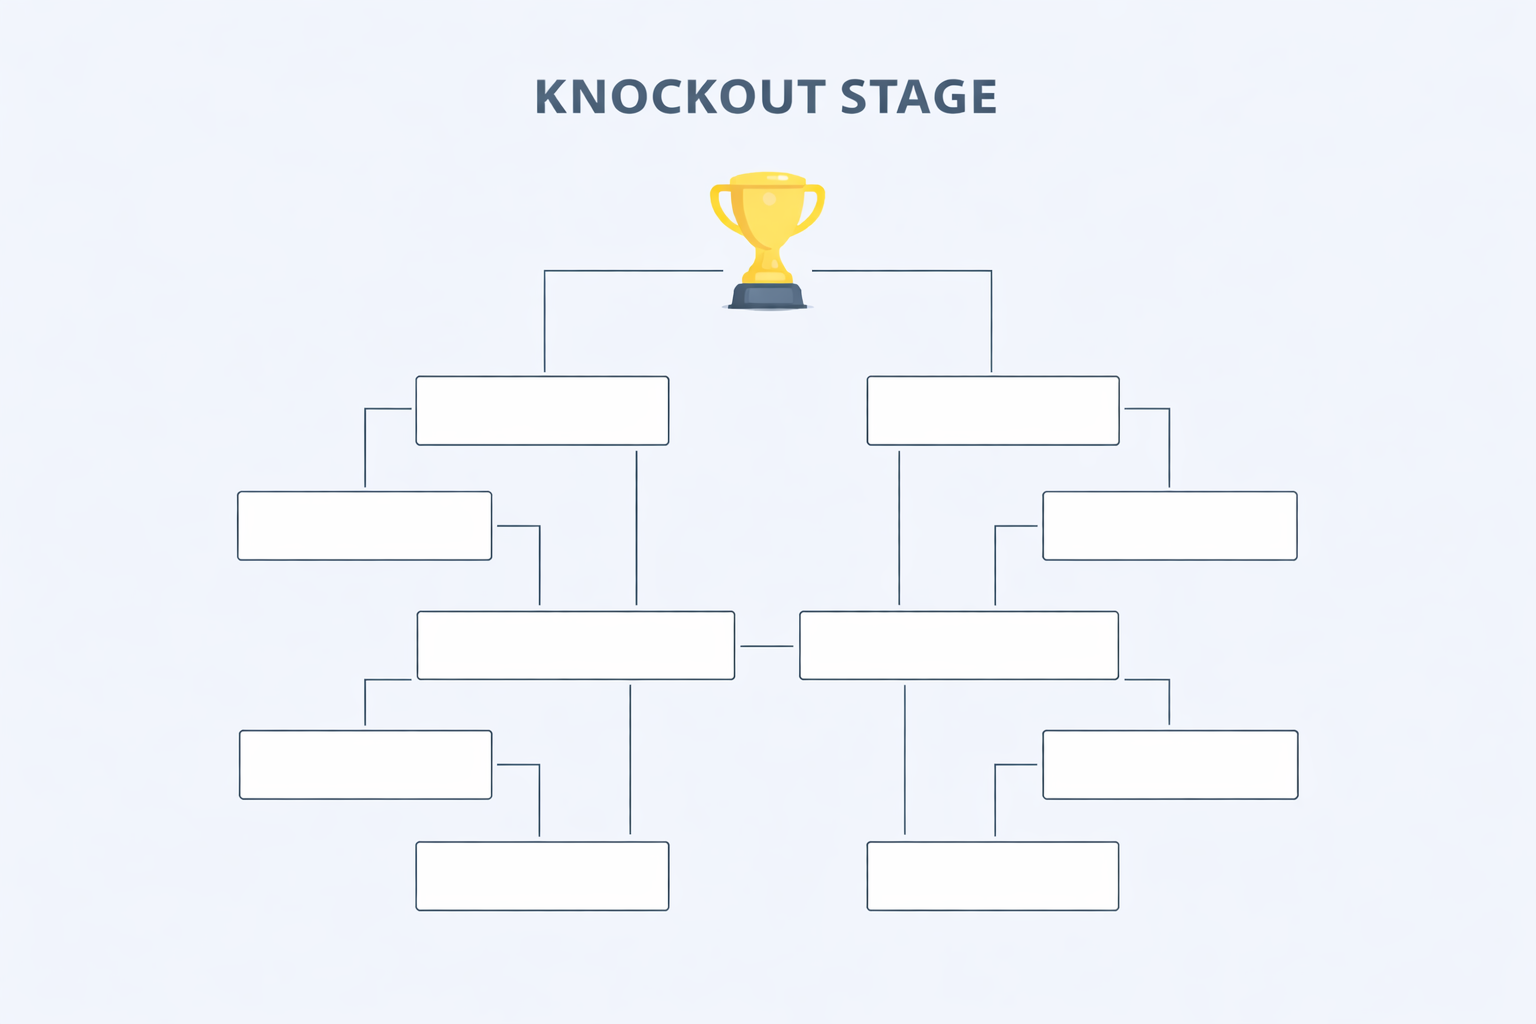
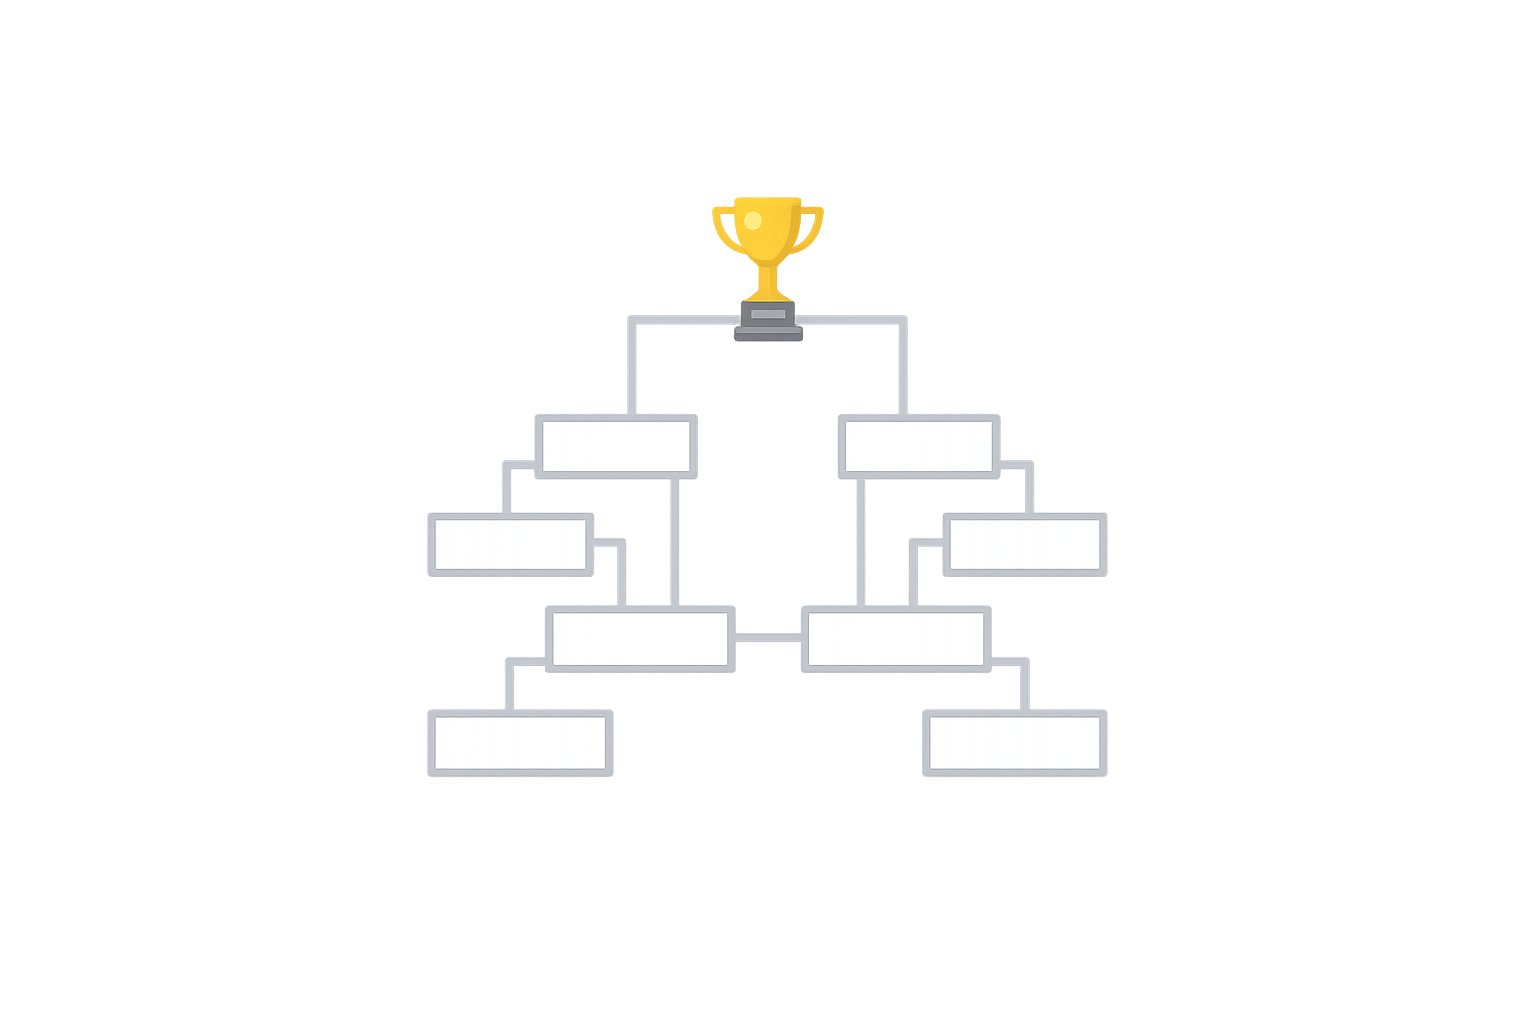
決勝トーナメントの画面を作成

diff --git a/templates/world_cup_about/tournament.html b/templates/world_cup_about/tournament.html
@@ -1,0 +1,115 @@
+<div class="text_center">
+    <h1>決勝トーナメントについて</h1>
+    <div class="font-size-24px">
+        <p>グループリーグを勝ち上がったチームだけが進める</p>
+        <p><span class="bold">負けたら即終了の一発勝負のトーナメントです！</span></p>
+        <p>最後まで勝ち続けた１チームがワールドカップの王者になります！</p>
+    </div>
+</div>
+
+
+
+
+<div style="max-width:1200px;" class="margin_auto justify-content">
+    <div style="max-width:1200px" class="card margin-4px">
+        <div class="flex-direction-row ">
+            <h2 class="world-cup-about-title">決勝トーナメントの流れ</h2>
+        </div>
+        <div style="display:flex; justify-content: space-around;">
+            <div style="margin-left: 20px">
+               <h3 >ベスト32</h3>
+                <div style="width: 100px;background-color:#E3F2FD;" class="card">
+                    <p>勝ち上がった32チームが
+                        <br>ここから一発勝負で<br>戦います</p>
+                </div>
+            </div>
+            <i style="display: flex;  align-items: center;" class="fa-solid fa-play"></i>
+            <div style="margin-left: 20px">
+                <h3>ベスト16</h3>
+                <div style="width: 100px;background-color:#E8F5E9;" class="card">
+                    <p>勝った<br>16チームが<br>ベスト16へ</p>
+                </div>
+            </div>
+            <i style="display: flex;  align-items: center;" class="fa-solid fa-play"></i>
+            <div style="margin-left: 20px">
+                <h3>ベスト8</h3>
+                <div style="width: 100px;background-color:#FFF3E0;" class="card">
+                    <p>勝った<br>8チームが<br>ベスト8へ</p>
+                </div>
+            </div>
+            <i style="display: flex;  align-items: center;" class="fa-solid fa-play"></i>
+            <div style="margin-left: 20px">
+                <h3>ベスト4</h3>
+                <div style="width: 100px;background-color:#FFEBEE;" class="card">
+                    <p>勝った<br>4チームが<br>ベスト4へ</p>
+                </div>
+            </div>
+            <i style="display: flex;  align-items: center;" class="fa-solid fa-play"></i>
+            <div style="margin-left: 20px; margin-right: 20px">
+                <h3>決勝・3位決定戦</h3>
+                <div style="width: 100px;background-color:#FFF8E1;" class="card">
+                    <p>勝ち残った<br>2チームが<br>決勝！</p>
+                    <p>3位決定戦<br>もやります</p>
+                </div>
+            </div>
+        </div>
+        <p class="text-left"><a href="https://www.footballchannel.jp/2026/03/19/post819372/">詳しいトーナメント表はこちらから</a></p>
+    </div>
+</div>
+
+
+<div style="max-width:1200px;" class="margin_auto justify-content">
+    <div style="max-width:1200px" class="card margin-4px">
+        <div class="flex-direction-row ">
+            <h2 class="world-cup-about-title">決勝トーナメントのポイント</h2>
+        </div>
+        <div class="flex-direction-row">
+            <div class="flex-direction-row">
+                <div class="align-items-center">
+                    <img src="\templates\images\world_cup_about\icon_clock.png" alt="感嘆符アイコン" style="width:150px; height: 100px;">
+                </div>
+                <div class="text-left">
+                    <h3 class="display: inline;">負けたら終わり！</h3>
+                    <p>決勝トーナメントは<br>1試合ごとの勝負<br>負けたチームはそこで帰宅です</p>
+                </div>
+            </div>
+
+            <div style="margin-right: 20px;" class="flex-direction-row">
+                <div class="align-items-center">
+                    <img src="\templates\images\world_cup_about\clock.png" alt="時計" style="width:150px; height: 100px;">
+                </div>
+                <div class="text-left">
+                    <h3 class="display: inline;">延長戦・PK戦がある！</h3>
+                    <p>90分で決まらない場合は延長戦<br>それでも決まらなければ<br>PK戦で決着！</p>
+                </div>
+            </div>
+
+            <div class="flex-direction-row">
+                <div class="align-items-center">
+                    <img src="\templates\images\world_cup_about\trophy.png" alt="時計" style="width:100px; height: 100px;">
+                </div>
+                <div class="text-left">
+                    <h3 class="display: inline;">優勝までに5試合！</h3>
+                    <p>トーナメントから優勝<br>するには5試合を勝ち抜く<br>必要があります</p>
+                </div>
+            </div>
+        </div>
+    </div>
+</div>
+
+<div style="max-width:1200px;" class="margin_auto justify-content">
+    <div style="max-width:1200px" class="card margin-4px">
+        <div class="flex-direction-row ">
+            <h2 style="background-color:#FFFFCC; border: #FFFFCC; color: black"  class="world-cup-about-title">最低限覚えておきたいルール</h2>
+        </div>
+        <div style="margin-left: 20px" class="text-left">
+            <ul>
+                <li class="text-left"><span class="bold">試合時間</span>：90分（前半45分＋後半45分）</li>
+                <li class="text-left"><span class="bold">延長戦</span>：30分（90分で決着がつかない場合実施）</li>
+                <li class="text-left"><span class="bold">PK戦</span>：5人ずつのキッカーで勝敗を決定（延長戦でも決着がつかない場合実施）</li>
+                <li class="text-left"><span class="bold">交代</span>：基本は5人まで</li>
+            </ul>
+        </div>
+
+    </div>
+</div>

diff --git a/templates/world_cup_about/world_cup_overview.html b/templates/world_cup_about/world_cup_overview.html
@@ -21,11 +21,12 @@
         <p>次のステージへ進む条件、勝ち点、得失点差について</p>
     </a>
 
-    <div class="card margin-4px">
+    <a href="/index.php?action=/world_cup_about/tournament" class="card margin-4px text-decoration-none">
         <div class="flex-direction-row">
             <img src="\templates\images\world_cup_about\tournament.png" alt="トーナメント表" style="width:100px; height: 100px">
             <h2>決勝トーナメントについて</h2>
         </div>
-        <p>(文章考える）)</p>
-    </div>
+        <p>グループリーグを勝ち抜いたチームが戦う<br>
+            負けたら終わりのトーナメントです</p>
+    </a>
 </div>

diff --git a/action/world_cup_about/tournament.php b/action/world_cup_about/tournament.php
@@ -1,0 +1,4 @@
+<?php
+
+$smarty->assign('filename', 'world_cup_about/tournament.html');
+$smarty->display('template.html');
